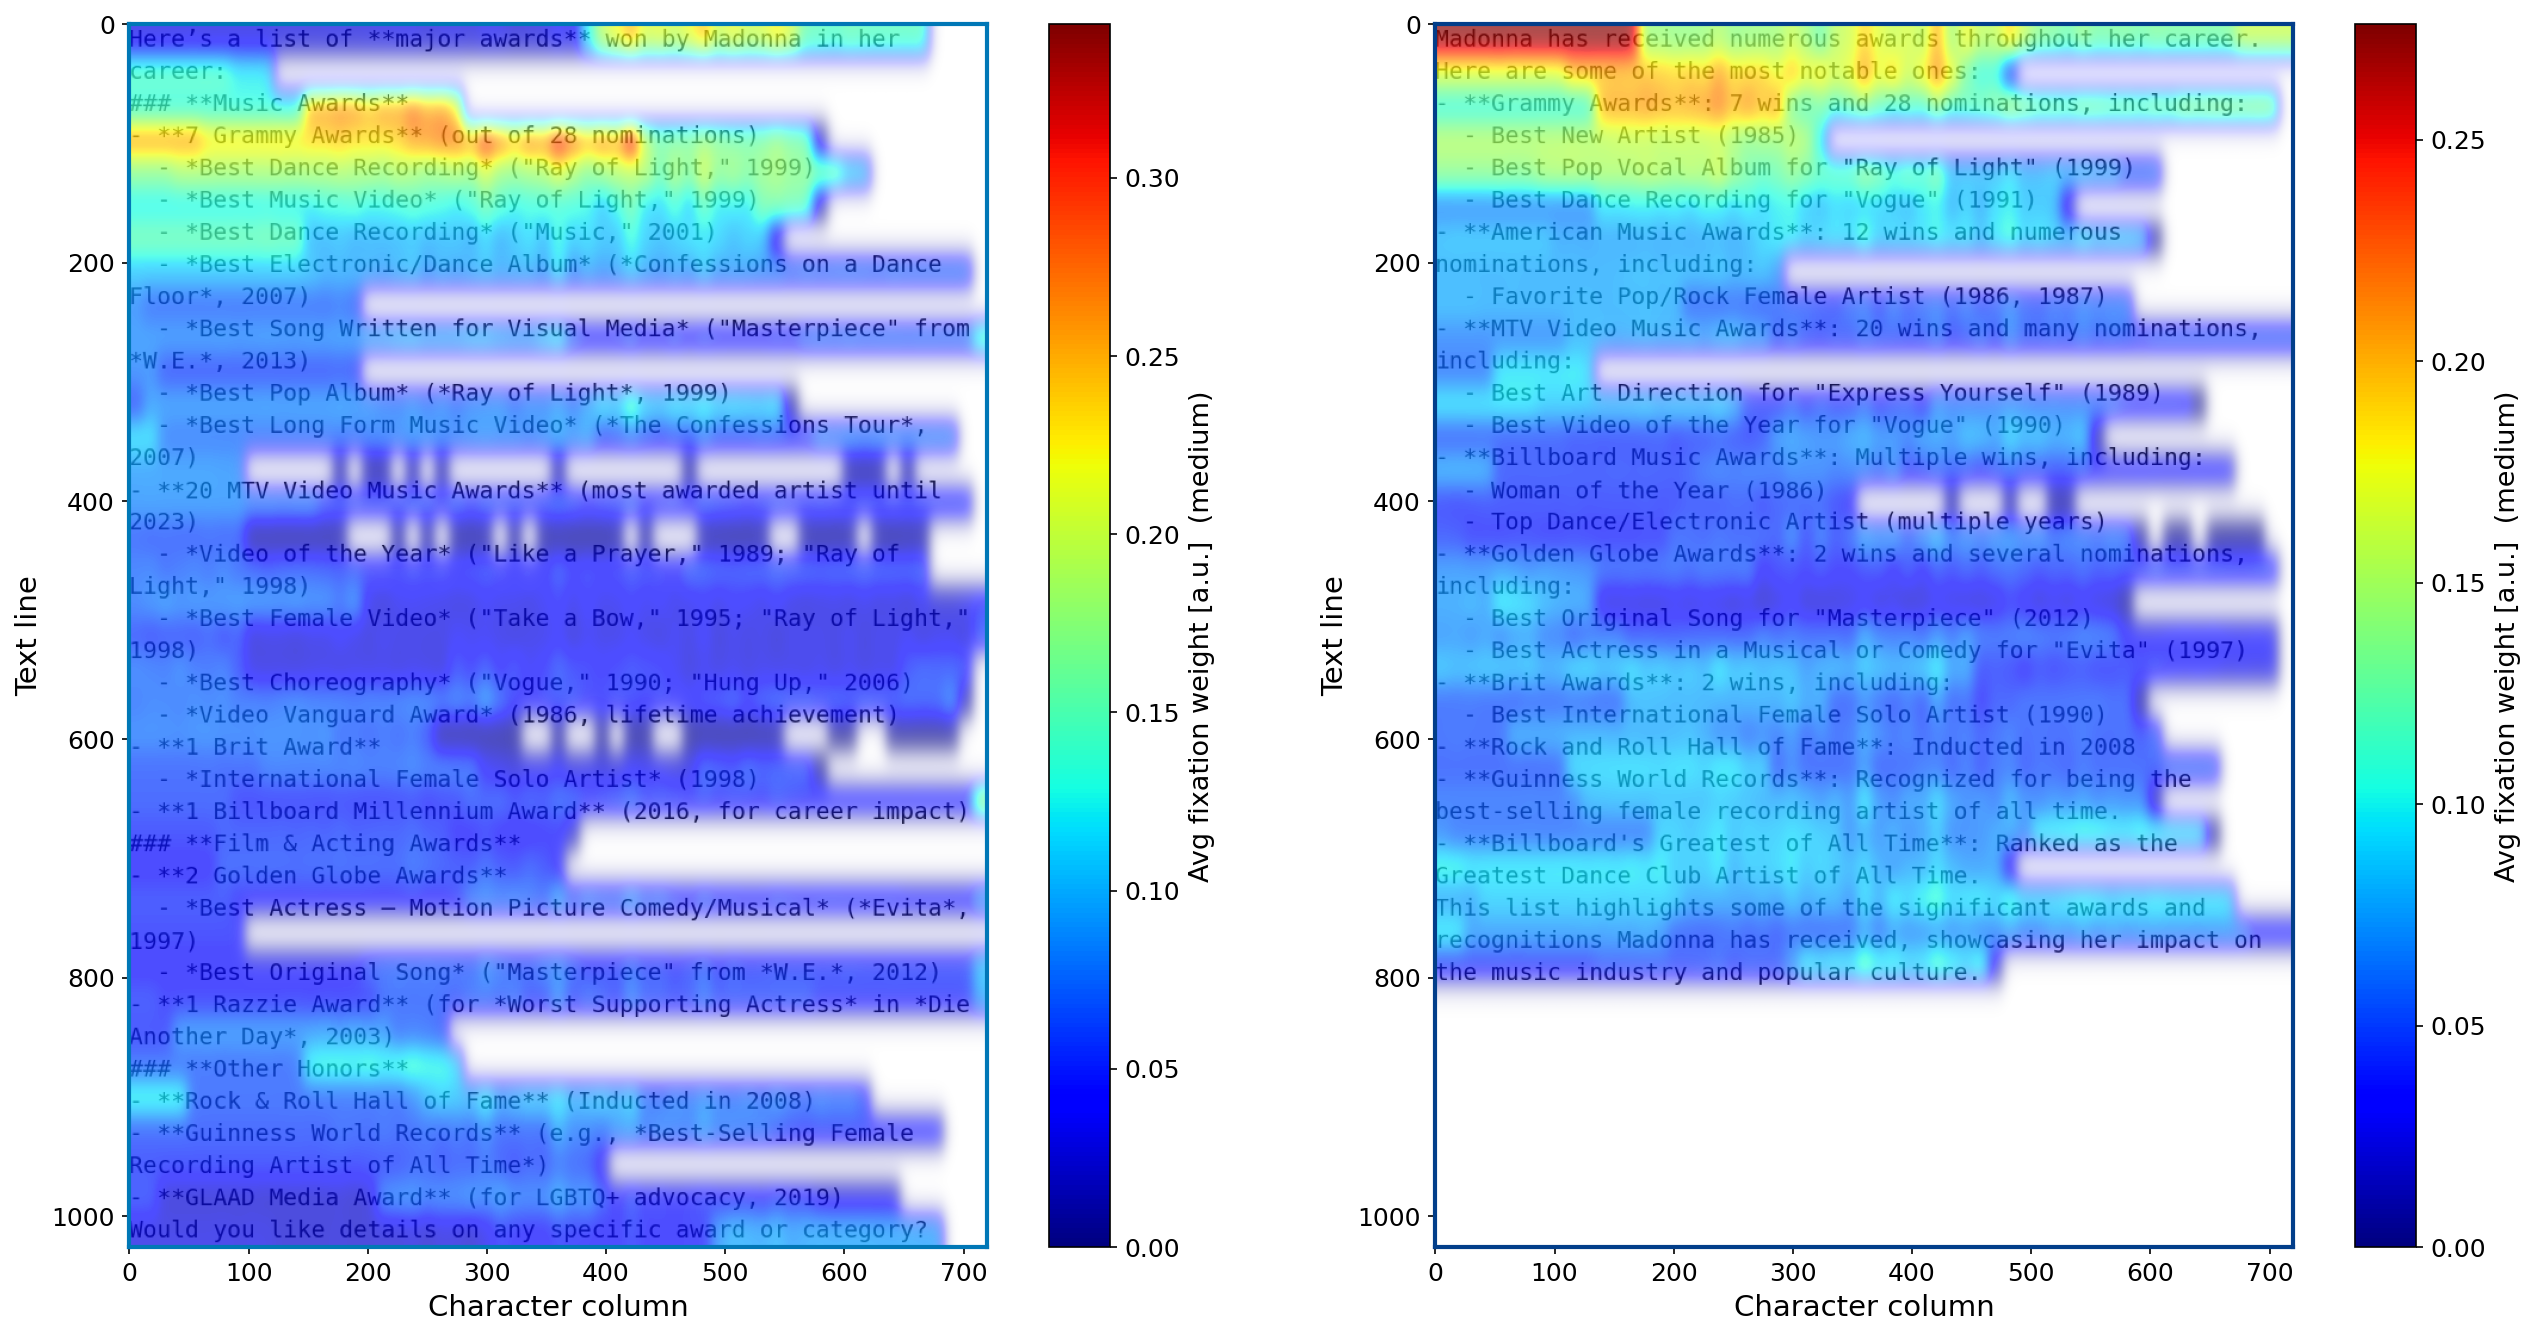
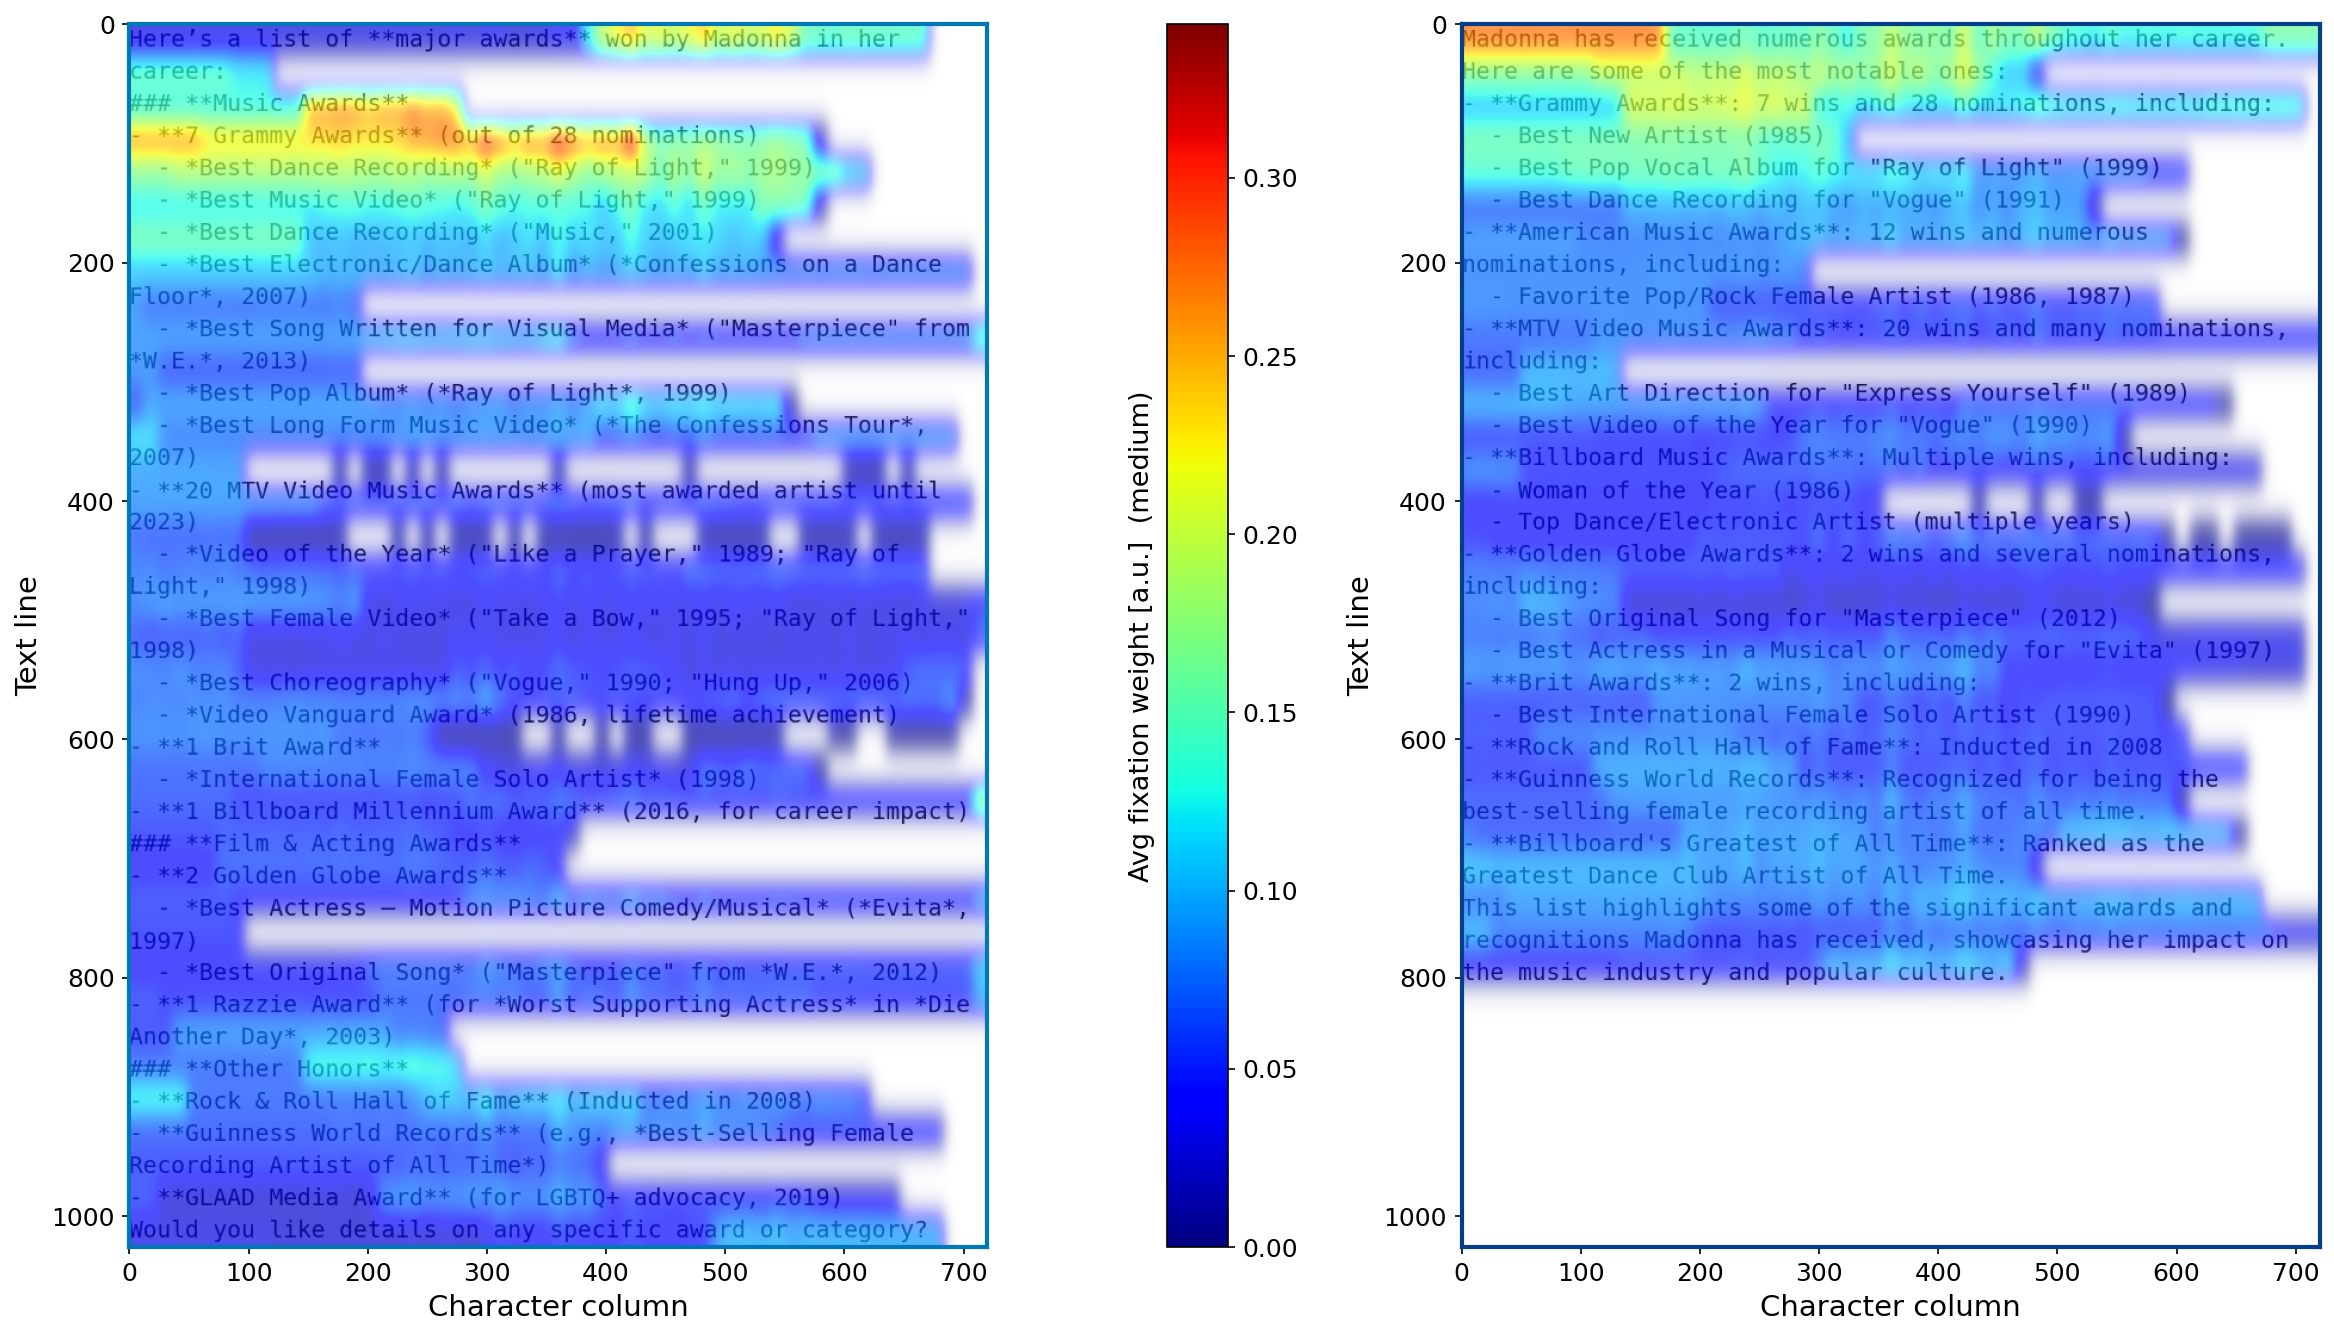
one single bar on heatmap

diff --git a/src/vis/gaze_pairwise_medium_pm_heatmap.py b/src/vis/gaze_pairwise_medium_pm_heatmap.py
@@ -342,16 +342,17 @@ gaze_right = make_gaze_object(text2, c2p2, avg_right, n_lines, rng, jitter_x, ji
 fig = plt.figure(figsize=(18, fig_h), facecolor=BG)
 
 gs = gridspec.GridSpec(
-    1, 2, figure=fig,
+    1, 3, figure=fig,
     left=0.03, right=0.97, top=0.97, bottom=0.05,
-    wspace=0.06,
+    wspace=0.04,
+    width_ratios=[1, 0.05, 1],
 )
 
 ax_heat_left  = fig.add_subplot(gs[0, 0])
-ax_heat_right = fig.add_subplot(gs[0, 1])
+ax_cbar       = fig.add_subplot(gs[0, 1])
+ax_heat_right = fig.add_subplot(gs[0, 2])
 
-# ── pymovements heatmaps ────────────────────────────────────────────────────
-axes_before_left = {id(a) for a in fig.axes}
+# ── pymovements heatmaps (colorbars disabled; shared scale added manually) ──
 pm.plotting.heatmap(
     gaze=gaze_left,
     position_column='pixel',
@@ -359,8 +360,7 @@ pm.plotting.heatmap(
     cmap='jet',
     interpolation='gaussian',
     origin='upper',
-    show_cbar=True,
-    cbar_label=f'Avg fixation weight [a.u.]  ({LENGTH_CATEGORY})',
+    show_cbar=False,
     title='',
     xlabel='Character column',
     ylabel='Text line',
@@ -371,9 +371,7 @@ pm.plotting.heatmap(
     alpha=0.70,
     ax=ax_heat_left,
 )
-cbar_left = next((a for a in fig.axes if id(a) not in axes_before_left), None)
 
-axes_before_right = {id(a) for a in fig.axes}
 pm.plotting.heatmap(
     gaze=gaze_right,
     position_column='pixel',
@@ -381,8 +379,7 @@ pm.plotting.heatmap(
     cmap='jet',
     interpolation='gaussian',
     origin='upper',
-    show_cbar=True,
-    cbar_label=f'Avg fixation weight [a.u.]  ({LENGTH_CATEGORY})',
+    show_cbar=False,
     title='',
     xlabel='Character column',
     ylabel='Text line',
@@ -393,11 +390,17 @@ pm.plotting.heatmap(
     alpha=0.70,
     ax=ax_heat_right,
 )
-cbar_right = next((a for a in fig.axes if id(a) not in axes_before_right), None)
 
-# Style heatmap panel borders to match the reference visual
+# Shared colour scale: heatmap image is the last imshow artist in each axes
+img_left  = ax_heat_left.get_images()[-1]
+img_right = ax_heat_right.get_images()[-1]
+shared_vmax = max(float(img_left.get_array().max()),
+                  float(img_right.get_array().max()))
+for img in (img_left, img_right):
+    img.set_clim(0, shared_vmax)
+
+# Style heatmap panel borders
 for ax, border in [(ax_heat_left, BORDERS[0]), (ax_heat_right, BORDERS[1])]:
-    # ax.set_aspect('auto')
     for sp in ax.spines.values():
         sp.set_edgecolor(border); sp.set_linewidth(2.0)
     ax.tick_params(colors='black', labelsize=12)
@@ -406,18 +409,16 @@ for ax, border in [(ax_heat_left, BORDERS[0]), (ax_heat_right, BORDERS[1])]:
     ax.xaxis.label.set_fontsize(14)
     ax.yaxis.label.set_fontsize(14)
 
-for _cb in (cbar_left, cbar_right):
-    if _cb is not None:
-        _cb.tick_params(labelsize=12)
-        _cb.yaxis.label.set_fontsize(13)
+# Single shared colorbar in the centre column
+cbar = fig.colorbar(img_right, cax=ax_cbar)
+cbar.ax.yaxis.set_label_position('left')
+cbar.set_label(f'Avg fixation weight [a.u.]  ({LENGTH_CATEGORY})', fontsize=13, labelpad=6)
+cbar.ax.tick_params(labelsize=12)
 
-# Snap colorbar height to exactly match each heatmap axes
+# Nudge colorbar slightly left so it sits visually centred between the panels
 fig.canvas.draw()
-for ax_heat, cbar_ax in [(ax_heat_left, cbar_left), (ax_heat_right, cbar_right)]:
-    if cbar_ax is not None:
-        hp = ax_heat.get_position()
-        cp = cbar_ax.get_position()
-        cbar_ax.set_position([cp.x0, hp.y0, cp.width, hp.height])
+_pos = ax_cbar.get_position()
+ax_cbar.set_position([_pos.x0 - 0.01, _pos.y0, _pos.width, _pos.height])
 
 plt.savefig(OUTPUT_PATH, dpi=150, bbox_inches='tight', facecolor=BG)
 plt.close(fig)
